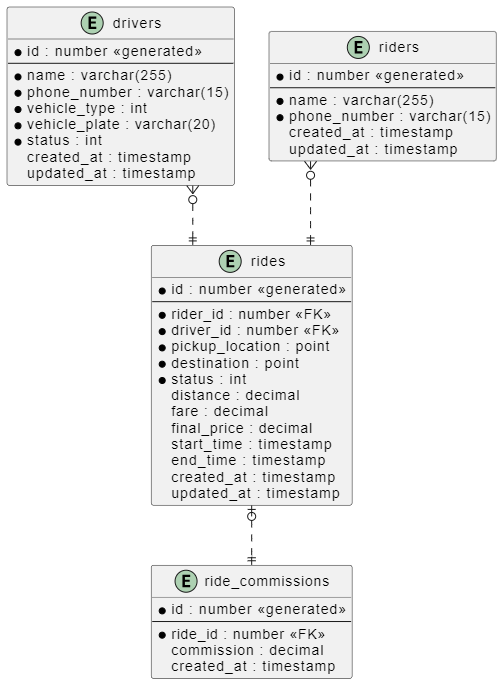
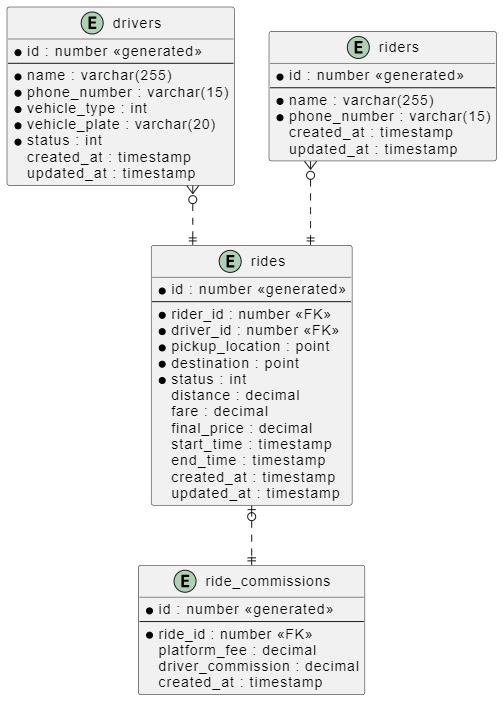
chore: complete documentation

Changed region(s): [[0.0, 0.0, 0.7157, 0.7664], [0.2684, 0.7971, 0.7455, 1.0], [0.5368, 0.0307, 1.0, 0.2759]]

diff --git a/loadtest/patch_driver_availability.load_stages.js b/loadtest/patch_driver_availability.load_stages.js
@@ -50,7 +50,7 @@ export default function () {
 
 export function handleSummary(data) {
   return {
-    "result/load_stages/patch_availability.result.html": htmlReport(data),
+    "result.patch_driver_availability.html": htmlReport(data),
     stdout: textSummary(data, { indent: " ", enableColors: true }),
   };
 }

diff --git a/loadtest/get_ride_data.load_stages.js b/loadtest/get_ride_data.load_stages.js
@@ -41,7 +41,7 @@ export default function () {
 
 export function handleSummary(data) {
   return {
-    "result/load_stages/get_ride_data.result.html": htmlReport(data),
+    "result.get_ride_data.html": htmlReport(data),
     stdout: textSummary(data, { indent: " ", enableColors: true }),
   };
 }

diff --git a/README.md b/README.md
@@ -5,76 +5,75 @@
 ## Description
 NebengJek is a ride-sharing app that connects users with shared rides. Users can either be Riders, requesting a ride, or Drivers, offering their vehicle. Both can choose whom to ride with, as long as they're within a specific area. 🚀
 
-## Features
-1. __Ride Matchmaking__
+## Main Features
+1. __Ride Matching__
 
-    Riders can request a rides to nearest available drivers (in radius 1 km). Drivers can accept or ignore requests. Riders can also be selective on who offered the ride.
+    Riders can request a ride to nearest available drivers (in radius 1 km). Drivers can accept or ignore requests. Riders can also be selective on who offered the ride.
 2. __Real-Time Location Tracking__:
 
-    Once the ride is matched and rider got picked up, the ride begins, with both users sending location updates every minute. The app tracks and calculates the distance traveled.
+    Once the ride is matched and rider got picked up, the ride begins. Both users sending location updates every minute. The app tracks and calculates the distance traveled.
 3. __Ride Commissions__:
     
-    The app takes a 30% commission from each ride to support the service maintenance and growth. :)
+    The app takes 30% commission from each ride to support the service maintenance and growth. :)
 
 ## Architecture
-### High Level Design
-![HLD](docs/pictures/Nebengjek-HLD.png)
+![LLD](docs/pictures/Nebengjek-LLD.png)
 
-__Services__
+This system contains of four internal services and one external service (mocked).
 
 1. Riders, responsible for maintaining Riders' connection for real-time location update and ride update broadcast.
 2. Drivers, responsible for maintaining Drivers' connection for real-time location update and ride update broadcast.
 3. Rides, responsible for managing Ride data, including driver-rider assignments and ride status lifecycle.
 4. Location, responsible for managing users' real time locations.
-5. (External) Tsel-payment service mock, responsible for maintaining users' credit. 
+5. (External) Tsel-payment service mock, responsible for maintaining users' credits. 
 
-### Low Level Design
-![LLD](docs/pictures/Nebengjek-LLD.png)
+The communication between users and our services utilize __Websocket__ (for real-time bidirectional communication) and __REST API__ (for stateless data updates). To enable system High Availability, a Load Balancer sits in front of our services. The services are containerized using Docker. The services communicate with Event Driven Architecture using NATS JetStream (for ride update broadcasting and real time location tracking).
 
-The communication between users and our services utilize __Websocket__ (for real time bidirectional communication) and __REST API__ (for stateless data update). For distributing user traffic, we use Load Balancer in front of the services. The services are containerized using Docker. The services communicate with pubsub using NATS message broker (for ride update broadcasting and real time location).
-
-The database we are using are Relational Database (Postgres) for storing Rides data and Key-Value storage (Redis) for storing Location data (in Geolocation format).
+The database we are using are Relational Database (Postgres) for storing Rides data and Key-Value storage (Redis) for storing Location data (in Geolocation format). Redis provides geo-location operations, including queries based on indexed coordinates and searches within a specified radius.
 
 ## Data Schema
 ![DB](docs/pictures/ERD.png)
 
-TBD
-### Drivers
-### Riders
-### Rides
-### Ride Commissions
+The data consists of four tables: Drivers, Riders, Rides, RideCommissions
 
-<!-- ### Ride status
-- NEW_RIDE_REQUEST
-- MATCHED_DRIVER
-- READY_TO_PICKUP
-- RIDE_STARTED
-- RIDE_ENDED
-- RIDE_PAID
-- RIDE_CANCELLED -->
+### Enumerations
+__Ride Status__
+![State Diagram](docs/pictures/state-diagram.ride-status.png)
+
+__Driver Status__
+| Number | Status    | Description 	              |
+|----	 |--------   |-------------	              |
+| 0 	 | OFF       | Driver is not in the radar |
+| 1  	 | AVAILABLE | Driver turns on the beacon |
+
 
 ## Data Migration
 ### Prerequisites
 1. Postgres 16
-2. DBMate
+2. [DBMate](https://github.com/amacneil/dbmate), data migration script to initialize tables and data seeds
 
 ### Steps
 Ensure that your database is running. To Initialize schema and add migration:
 
 ```
-dbmate --url 'postgres://rides_username:rides_password@0127.0.0.1:5436/rides_db?sslmode=disable' up
+dbmate --url 'postgres://YOUR_USERNAME:YOUR_PASSWORD@DB_HOST:5436/rides_db?sslmode=disable' up
 ```
 
 ## How to Run
 ### Prerequisites
-1. Golang >=1.22
-2. Postgres
-3. DBMate (data migration tools)
+1. **Golang >=1.22**, serves web API
+2. **Postgres 16**, for ride data store
+3. **Redis**, for GeoLocation data store
+4. **NATS JetStream**, message broker for event streaming and queue group
+
+5. (Alternatively) **Docker**, for practical containerized environment
 
 ### Steps
 
-1. Ensure that all the service dependencies are active: Redis, Postgres, and NATS. (You can use the dockerized version in `docker-compose.yml`)
-2. Initialize `.env` file. See `./configs/.env.example` for example.
+1. Ensure that all the service dependencies are running--Redis, Postgres, and NATS JetStream.
+2. Initialize Postgres database (see Data Migration step)
+3. Initialize NATS Jetstream using [create_stream script](deployments/nats/create_streams.sh)
+2. Initialize `.env` files for each services. (See [`./configs/rides/.env.example`](configs/rides/.env.example) for example)
 3. Run each service independently:
     ```sh
     make run-drivers
@@ -84,7 +83,7 @@ dbmate --url 'postgres://rides_username:rides_password@0127.0.0.1:5436/rides_db?
 
 ### Using Docker
 
-1. Initialize `.env` file into each `./configs/*` folders
+1. Initialize `.env` file for each services. [(`./configs/rides/.env.example`)](configs/rides/.env.example)
 2. In root path, execute `docker-compose up -d` to run all services (including the dependencies)
 
 ## API Contract
@@ -95,12 +94,21 @@ TBD
 For load testing, we use `k6`.
 The test scenario will hit two selected APIs which spawned a number of concurrent users that was run gradually on multiple stages.
 
-The load test target is GET ride data endpoint (with target of 50-200 users) PATCH set driver availability endpoint (with target of 20-80 users). 
+The load test target is GET ride data endpoint (with target of 50-200 users) PATCH driver availability endpoint (with target of 20-80 users). 
+
+## Prerequisites
+1. [K6](https://github.com/grafana/k6)
 
 ## How to Run
 To run the load test:
 ```sh
-cd loadtest && k6 run load_stages.js 
+cd loadtest
+
+## To run load test for GET ride data
+k6 run get_ride_data.load_stages.js
+
+## To run load test for PATCH driver availability
+k6 run patch_driver_availability.load_stages.js
 ```
 
 ## Author
